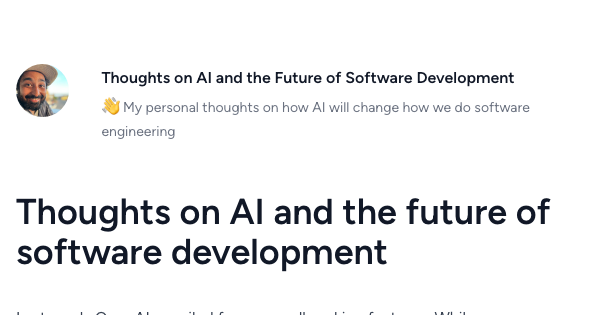
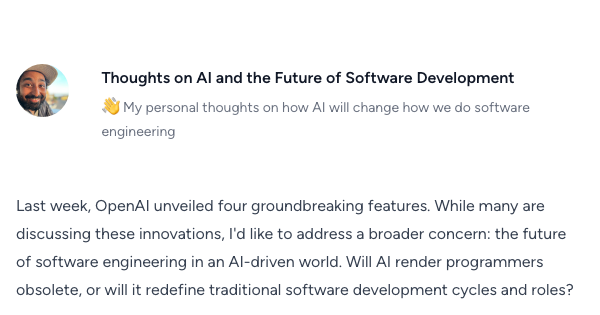
change blog and add screenshot

diff --git a/app/Actions/ScreenshotCreator.php b/app/Actions/ScreenshotCreator.php
@@ -26,6 +26,11 @@ class ScreenshotCreator
     private function takeScreenshot($slug)
     {
         $url = url('/blog/' . $slug);
+        // check if the file already exists
+        if (file_exists(storage_path('app/public/screenshots/' . $slug . '.jpg'))) {
+            return;
+        }
+
         Browsershot::url($url)
             ->windowSize(600, 315)
             ->save(storage_path('app/public/screenshots/' . $slug . '.jpg'));

diff --git a/storage/app/blog/thoughts-on-ai-and-software-development.md b/storage/app/blog/thoughts-on-ai-and-software-development.md
@@ -6,8 +6,6 @@ tag: AI
 author: Hassaan Pasha
 ---
 
-# Thoughts on AI and the future of software development
-
 Last week, OpenAI unveiled four groundbreaking features. While many are discussing these innovations, I'd like to address a broader concern: the future of software engineering in an AI-driven world. Will AI render programmers obsolete, or will it redefine traditional software development cycles and roles?
 
 These concerns are valid, especially given the rapid advancements in AI. While I may not have all the answers, I'd like to share my perspective on the evolving landscape.
